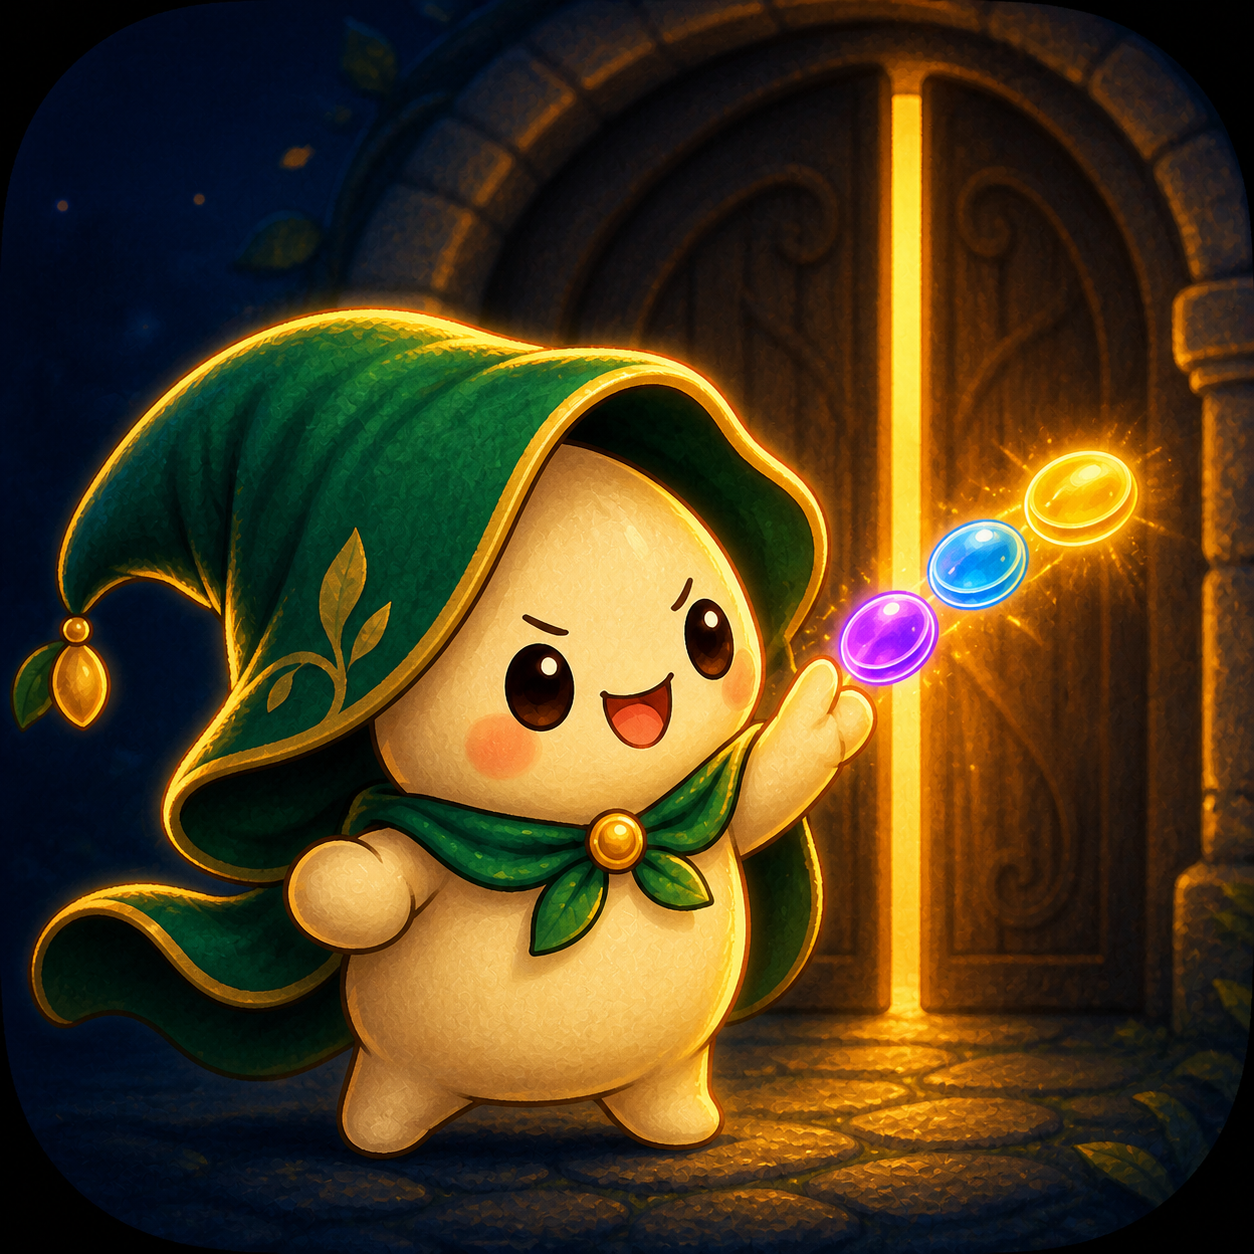
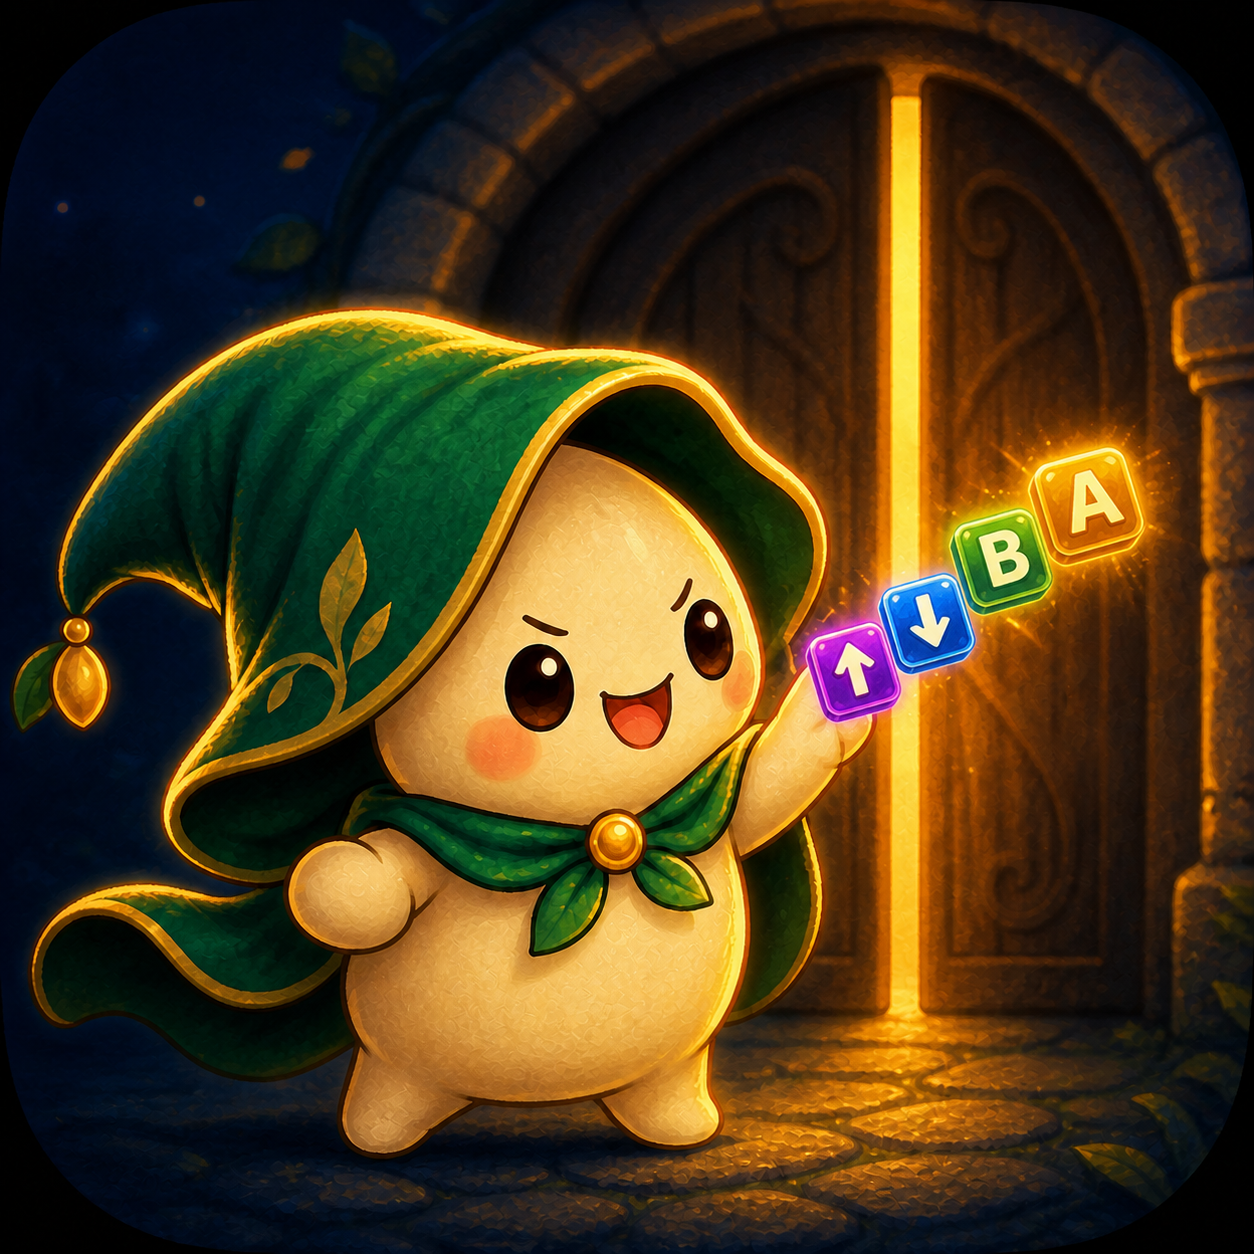
Turn mascot spell into keycaps

diff --git a/docs/DESIGN.md b/docs/DESIGN.md
@@ -6,7 +6,7 @@ The current accepted concept is [`design/admin-settings-custom-combinations-conc
 
 Unmistakably Sesamo, unmistakably WordPress: native controls and system typography; true white surfaces; deep ink text; emerald armed state; brass only for the safety boundary; sequence anatomy expressed as wrapping keycaps. Built-ins stay table-like; custom combinations use an open editing rail with no nested card grid. No custom dashboard shell, fake metrics, bento grid, external font, or animation is required to understand state.
 
-The brand mascot is the kawaii sesame-seed wizard in [`design/sesamo-mascot-icon-master.png`](design/sesamo-mascot-icon-master.png): emerald hood, four sequence orbs, and a half-open storybook gate. The mascot remains the focal point at 64 px; the gate is context, not the logo wearing a door costume.
+The brand mascot is the kawaii sesame-seed wizard in [`design/sesamo-mascot-icon-master.png`](design/sesamo-mascot-icon-master.png): emerald hood, four illuminated `↑ ↓ B A` keycaps, and a half-open storybook gate. The mascot remains the focal point at 64 px; the gate is context, not the logo wearing a door costume.
 
 ## Tokens
 

diff --git a/CHANGELOG.md b/CHANGELOG.md
@@ -7,7 +7,7 @@ All notable changes follow [Keep a Changelog](https://keepachangelog.com/en/1.1.
 ### Changed
 
 - Release artifacts now introduce themselves properly as `sesamo-vMAJOR.MINOR.PATCH.zip`, with a matching checksum. Mystery meat belongs in freezers, not Downloads folders.
-- Replaced the austere keyhole mark with a hand-painted kawaii sesame wizard casting a four-button spell at a storybook gate. The old door has been reassigned to infrastructure.
+- Replaced the austere keyhole mark with a hand-painted kawaii sesame wizard casting an illuminated `↑ ↓ B A` spell at a storybook gate. The old door has been reassigned to infrastructure.
 
 ### Planned
 
